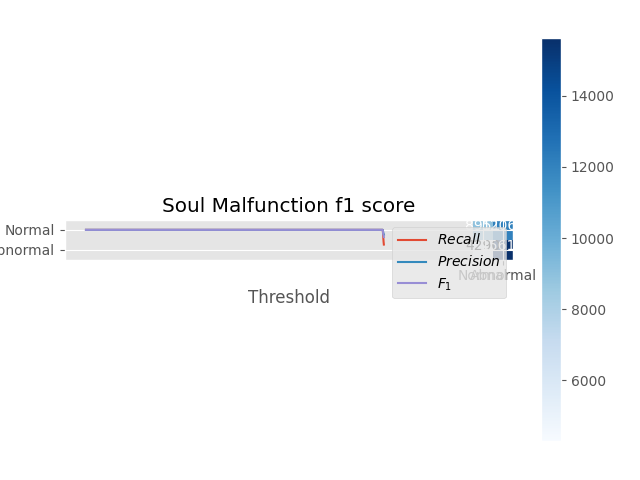
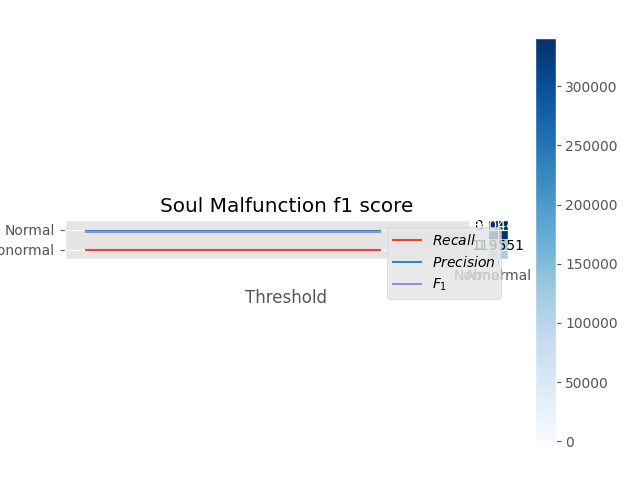
Revise statistical_etc function

diff --git a/MainTesting.py b/MainTesting.py
@@ -166,7 +166,10 @@ def statistical_tec(train, valid, test, car, attack):
     sigma = train.drop('flag', axis=1).cov().values
     model = multivariate_normal(cov=sigma, mean=mu, allow_singular=True)
 
-    tresholds = np.linspace(-20, -5, 1000)
+    # print(np.median(model.logpdf(valid[valid['flag'] == 0].drop('flag', axis=1).values)))
+    # print(np.median(model.logpdf(valid[valid['flag'] == 1].drop('flag', axis=1).values)))
+
+    tresholds = np.linspace(-45, -44, 1000)
     scores = []
     for treshold in tresholds:
         y_hat = (model.logpdf(valid.drop('flag', axis=1).values) < treshold).astype(int)
@@ -189,10 +192,11 @@ def statistical_tec(train, valid, test, car, attack):
     final_tresh = tresholds[scores[:, 2].argmax()]
     y_hat_test = (model.logpdf(test.drop('flag', axis=1).values) < final_tresh).astype(int)
 
-    print('Final threshold: %.3f' % final_tresh)
-    print('Test Recall Score: %.3f' % recall_score(y_pred=y_hat_test, y_true=test['flag'].values))
-    print('Test Precision Score: %.3f' % precision_score(y_pred=y_hat_test, y_true=test['flag'].values))
-    print('Test F1 Score: %.3f' % fbeta_score(y_pred=y_hat_test, y_true=test['flag'].values, beta=1))
+    # print('Final threshold: %.8f' % final_tresh)
+    print('Accuracy: {:.4f}%'.format(accuracy_score(test['flag'], y_hat_test) * 100))
+    print('Recall: {:.4f}%'.format(recall_score(test['flag'], y_hat_test) * 100))
+    print('Precision: {:.4f}%'.format(precision_score(test['flag'], y_hat_test) * 100))
+    print('F1 Score: {:.4f}%'.format(fbeta_score(test['flag'], y_hat_test, beta=1) * 100))
 
     cnf_matrix = confusion_matrix(test['flag'].values, y_hat_test)
     plot_confusion_matrix(cnf_matrix, classes=['Normal', 'Abnormal'], title='Confusion matrix', car=car, attack=attack)
